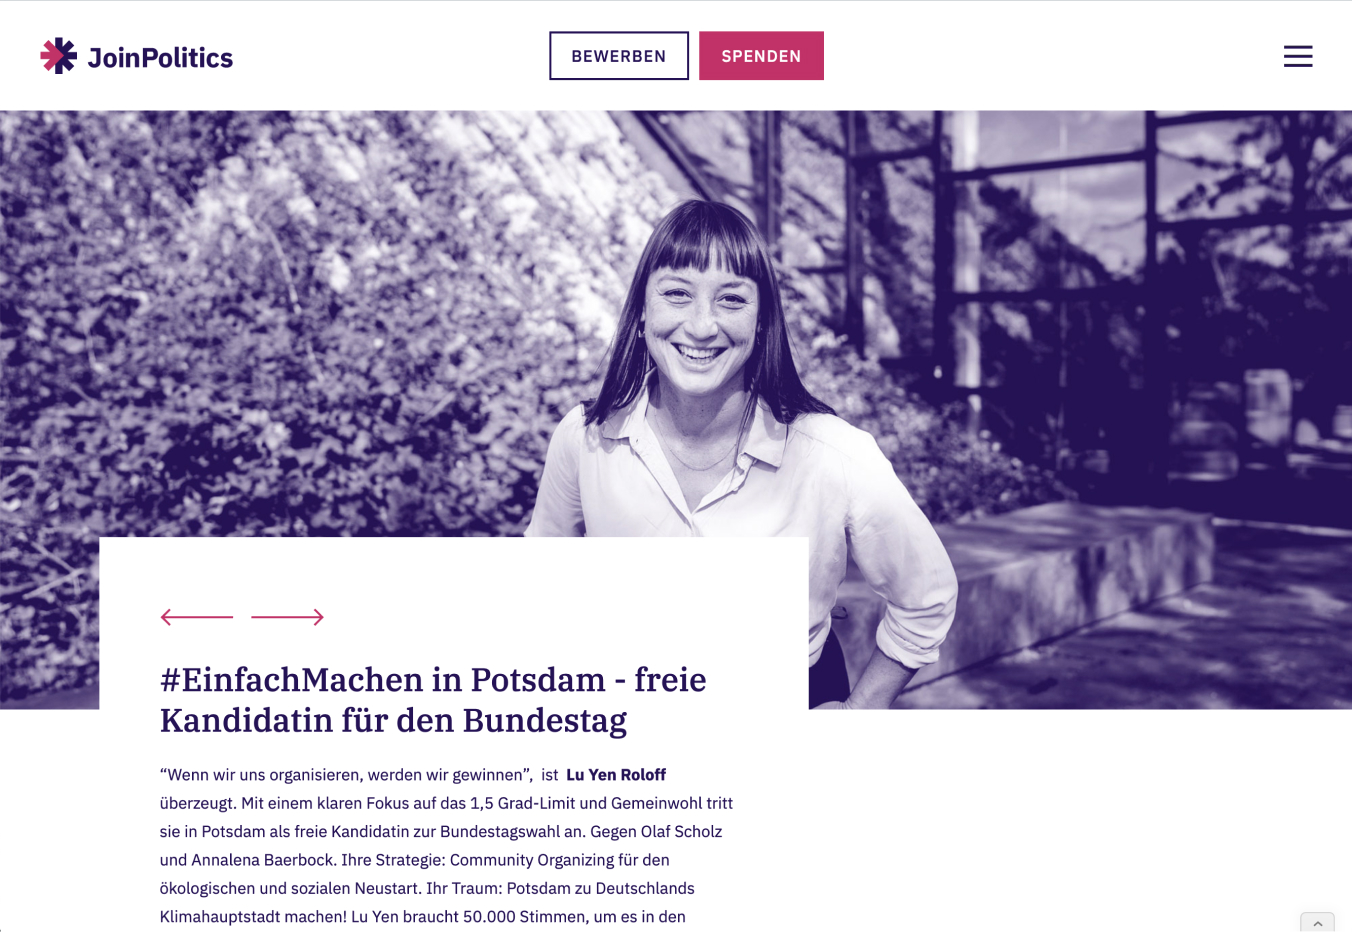
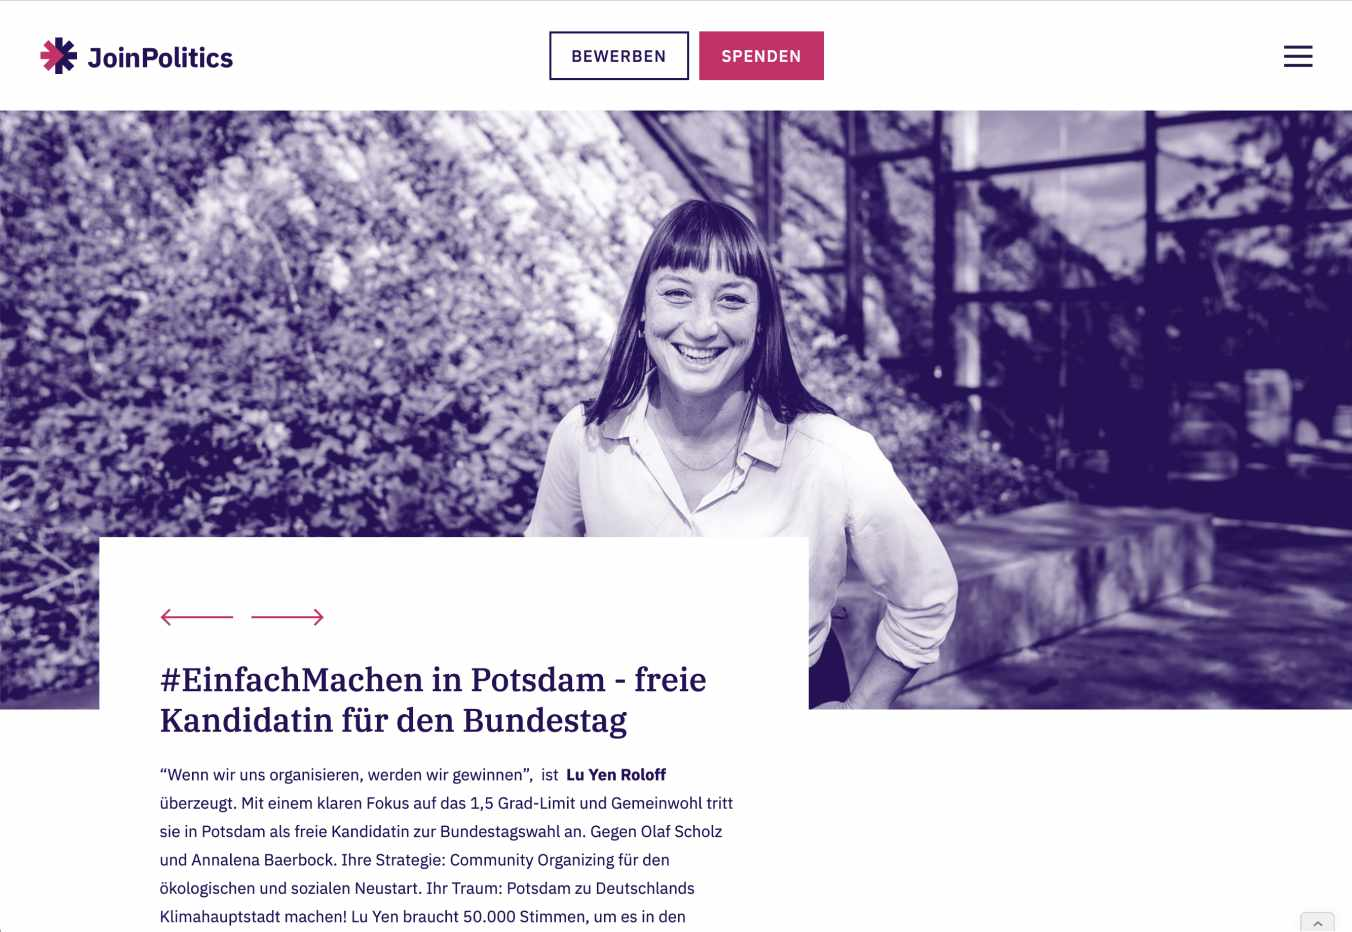
fixed image aspect ratio

diff --git a/src/routes/works/joinpolitics.svelte b/src/routes/works/joinpolitics.svelte
@@ -18,11 +18,11 @@
 		continue to work with them today.
 	</p>
 	<figure>
-		<img src={joinPolitics} alt="Screenshot of joinpolitics website header" class="thumbnail" />
+		<img src={joinPolitics} width="1814" height="954" alt="Screenshot of joinpolitics website header" class="thumbnail" />
 		<figcaption>Header in vibrant brand colors.</figcaption>
 	</figure>
 	<figure>
-		<img src={joinPolitics2} alt="Screenshot of slider on joinpolitics website" class="thumbnail" />
+		<img src={joinPolitics2} width="1352" height="932" alt="Screenshot of slider on joinpolitics website" class="thumbnail" />
 		<figcaption>Custom slider with webflow CMS items.</figcaption>
 	</figure>
 	<h2>The Results</h2>
@@ -70,6 +70,7 @@
 	}
 	img {
 		width: 100%;
+		height: auto;
 		margin-bottom: 0.5rem;
 	}
 

diff --git a/src/routes/__layout.svelte b/src/routes/__layout.svelte
@@ -30,10 +30,10 @@
 		href="https://fonts.googleapis.com/css2?family=Space+Grotesk&display=swap"
 		rel="stylesheet"
 	/>
-
 	<meta name="theme-color" content="#333333" />
+	<meta name="description" content="Bold websites that simply work."/>
 	<!-- <link rel="sitemap" type="application/xml" href="/sitemap.xml" /> -->
-	<link rel="canonical" href="https://paul-wicke.de.com" />
+	<!-- <link rel="canonical" href="https://paul-wicke.de" /> -->
 	<meta property="og:image" content="/static/images/og-image.jpg" />
 	<meta property="og:image:type" content="image/jpeg" />
 	<meta property="og:image:width" content="1600" />

diff --git a/src/style.css b/src/style.css
@@ -6,6 +6,7 @@ Body font Space Grotesk and Headline font Verona Serial
 	font-family: 'Space Grotesk';
 	font-weight: 400;
 	font-style: normal;
+	font-display: swap;
 	src: local('SpaceGrotesk Regular'),
 		/*Look for the file locally first*/ url(/fonts/SpaceGrotesk-Regular.woff2) format('woff2');
 }
@@ -13,6 +14,7 @@ Body font Space Grotesk and Headline font Verona Serial
 	font-family: 'Verona Serial';
 	font-weight: 400;
 	font-style: normal;
+	font-display: swap;
 	src: local('Verona Serial Regular'),
 		/*Look for the file locally first*/ url(/fonts/Verona-Serial-Regular.woff2) format('woff2');
 }

diff --git a/src/components/sections/about.svelte b/src/components/sections/about.svelte
@@ -15,7 +15,7 @@
 				<img src={copyUnderline} alt="decorative line" class="copy-underline desktop-only" />
 			</p>
 			<div class="profile-container">
-				<img src={profile} alt="Portrait of a young man" class="profile-image" />
+				<img src={profile} width="100" height="100" alt="Portrait of a young man" class="profile-image" />
 				<div class="profile-text">
 					<p class="profile-name">Jannis Paul Wicke</p>
 					<p>Consulting: 100€/hour</p>
@@ -39,6 +39,7 @@
 		margin-top: 1rem;
 	}
 	.profile-image {
+		height: auto;
 		width: 3.75rem;
 		border-radius: 50%;
 		margin-right: 1rem;

diff --git a/src/components/sections/selectedWork.svelte b/src/components/sections/selectedWork.svelte
@@ -7,7 +7,7 @@
 	<div class="selected-work-container">
 		<h2>Selected Work</h2>
 		<a href="/works/joinpolitics" class="project" sveltekit:scroll>
-			<img src={joinPolitics} alt="Screenshot of joinpolitics website" class="thumbnail" />
+			<img src={joinPolitics} width="1814" height="954" alt="Screenshot of joinpolitics website" class="thumbnail" />
 			<div class="project-copy">
 				<svg
 					width="52"
@@ -37,6 +37,7 @@
 		padding-bottom: 6rem;
 	}
 	.project img {
+		height: auto;
 		max-width: 100%;
 		margin-bottom: 1rem;
 	}
